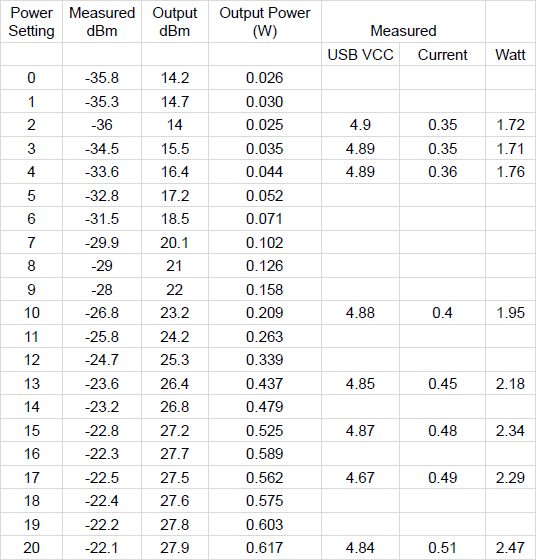
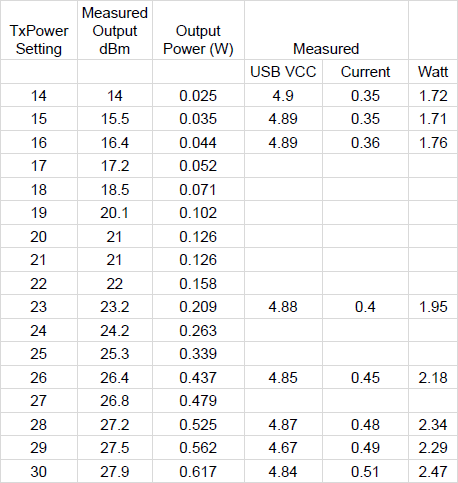
Update power table and average current.

Changed region(s): [[0.0, 0.0, 1.0, 0.9938], [0.5808, 0.7453, 0.8559, 0.9938], [0.8865, 0.7453, 0.9782, 0.9938]]

diff --git a/docs/hardware_overview.md b/docs/hardware_overview.md
@@ -153,15 +153,19 @@ The enclosure includes mounting holes for wall or rack mounting.
 
 ## Power Usage
 
-The SX1276 based radio module is rated for 1 Watt. The radio can be adjusted from 14dBm up to 30dBm (default). 
+The SX1276-based radio module is rated for 1 watt. The radio can be adjusted from 14dBm up to 30dBm (default). 
 
 **Note:** The **AT-TxPower** command ranges from 14 to 30 in dBm. The radio uses an internal lookup table to map the correct power output (30dBm by default) to the associated power level for the power amplifier (20 in this case).
+
+The average standby current is approximately **60mA** when TxPower of 30 is selected. The average current varies based on the selected output power because the units will periodically transmit *Find Partner* packets when the link is down and *Heartbeat* packets when the link is up, even if there is no data waiting to be transmitted. 
 
 ![A 1W radio using 2.5W](img/SparkFun%20LoRaSerial%20Power%20Usage.png)
 
 During broadcast, the radio can use much more than 1W. Use a good 5V supply capable of outputting at least 1A at 5V. A USB 3.0 port is good. A USB 2.0 port will considerably limit the capabilities of the radio.
 
 ![Power output vs Power input](img/SparkFun%20LoRaSerial%20Power%20Measurements.png)
+
+The above table shows power usage during 100% broadcast envelope usage. The actual current usage will be proportionally lower depending on the amount of data transmitted. For example, if only half of the airspeed is used (240 bytes out of a max of 480 at airspeed 4800) then the transmitter will only be on for 50% of the time at the stated power.
 
 The power meter and hardware setup limited the ability to get to the full 30dBm output. The above measurements should be used as a rule-of-thumb for power considerations.
 
